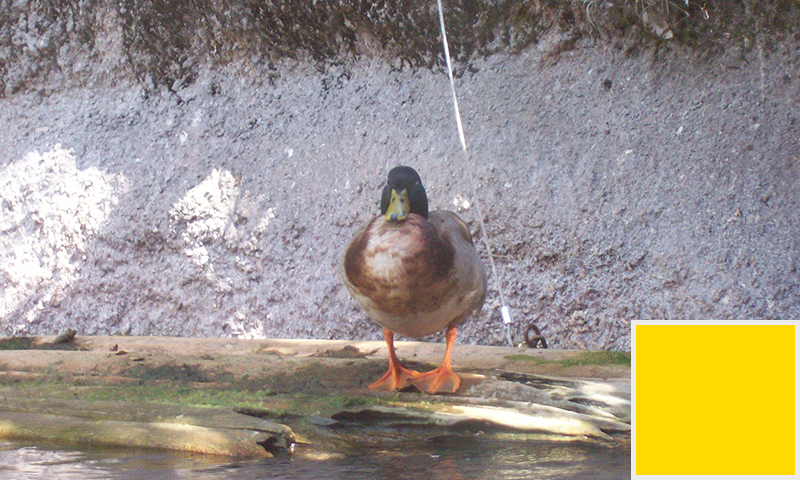
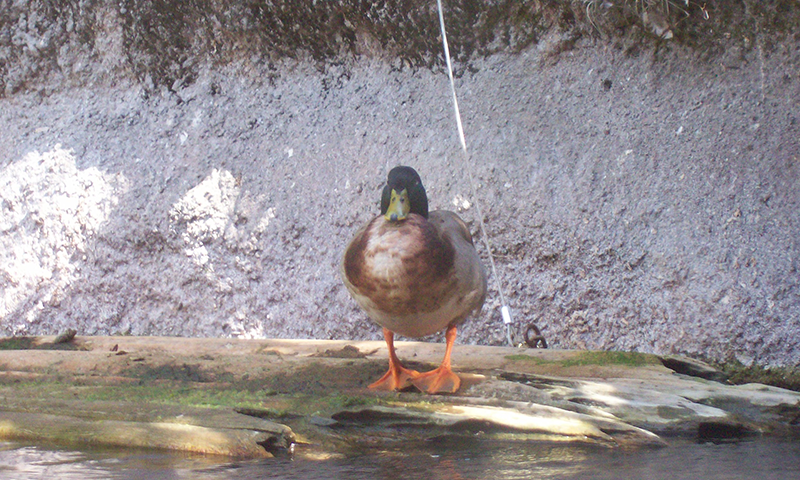
Add second test image for player

Changed region(s): [[0.7812, 0.6562, 1.0, 1.0]]

diff --git a/constants.py b/constants.py
@@ -27,7 +27,7 @@ RESET_TIME = 4
 
 # Constants relating to colored background
 START_BG_PATH = "assets/backgrounds/test.png"
-PLAYER_DEFAULT_BG_PATH = "assets/backgrounds/test.png"
+PLAYER_DEFAULT_BG_PATH = "assets/backgrounds/road.png"
 START_BG_COLOR = (0, 0, 0)
 PLAYER_BG_COLOR = '#d184a1'
 
